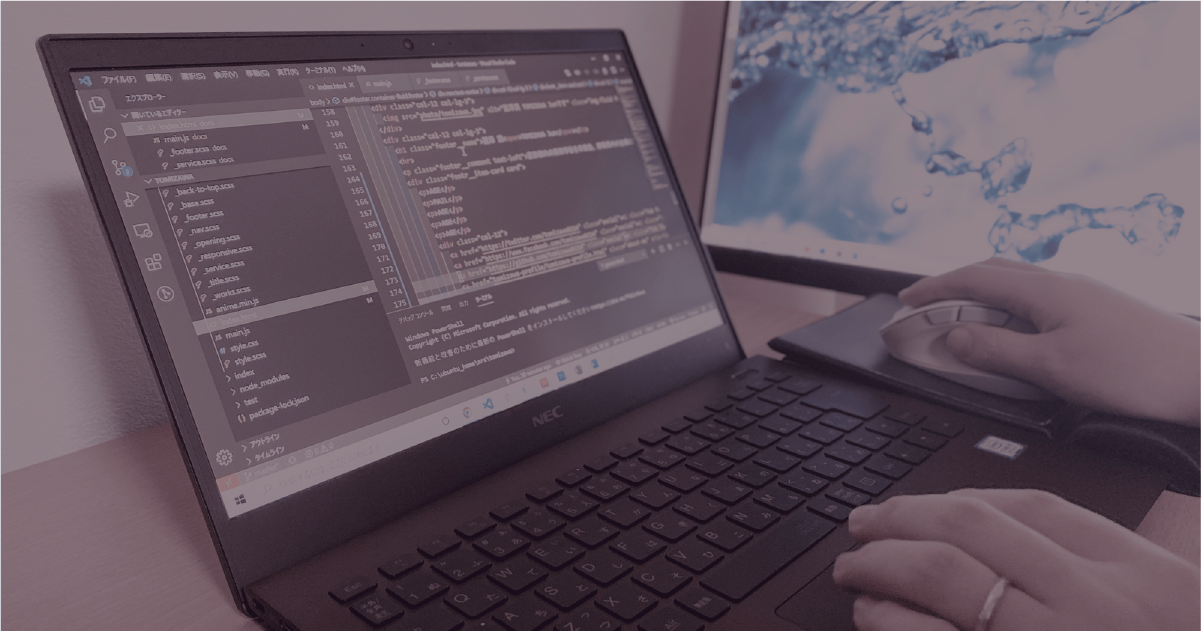
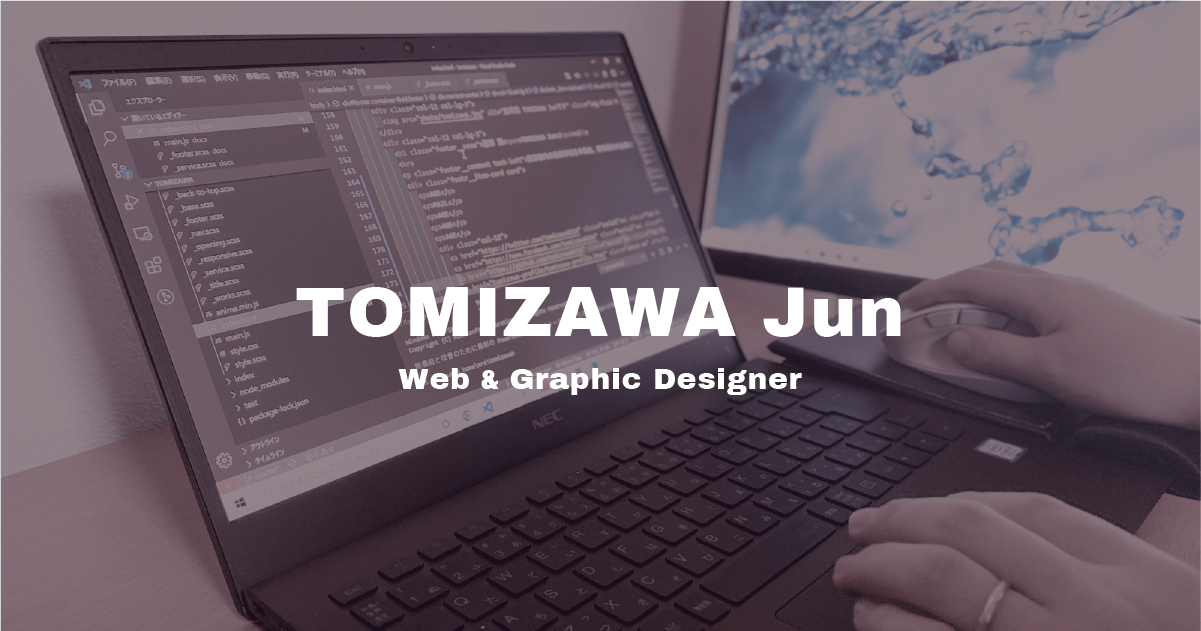
OGP画像変更

diff --git a/portfolio/templates/portfolio/base.html b/portfolio/templates/portfolio/base.html
@@ -15,18 +15,15 @@
     <meta name="viewport" content="width=device-width, initial-scale=1, shrink-to-fit=no">
     <meta name="keywords" content="群馬,デザイン,web, ホームページ, 制作, サイト, ネット, グラフィック,デザイナー,フリーランス,エンジニア,HTML,CSS,JavaScript,Python">
     <meta name="description" content="あなたのお悩み,解決に向けて尽力させてください！フリーランスで活動する群馬県在住のWeb&Graphicデザイナーです。どうぞお気軽にご連絡くださいませ。">
-    <!-- SNS共通の設定-->
     <head prefix="og: http://ogp.me/ns# fb: http://ogp.me/ns/fb# website: http://ogp.me/ns/website#"></head>
     <meta property="og:title" content="TOMIZAWA Jun | Web & Graphic Designer">
     <meta property="og:type" content="website">
     <meta property="og:url" content="https://tomizawajun.com">
-    <meta property="og:image" content="{% static 'img/main_sns.png' %}">
+    <meta property="og:image" content="https://tomizawajun.com/static/img/main_sns.png">
     <meta property="og:site_name" content="TOMIZAWA Jun | Web & Graphic Designer">
-    <meta property="og:description" content="あなたのお悩み,解決に向けて尽力させてください！フリーランスで活動する群馬県在住のWeb&Graphicデザイナーです。どうぞお気軽にご連絡くださいませ。">
+    <meta property="og:description" content="Web&Graphicデザイナー冨澤 潤のポートフォリオサイトです。どうぞお気軽にご連絡くださいませ。">
     <meta property="og:locale" content="ja_JP">
-    <!-- Facebookの設定 -->
     <meta property="fb:app_id" content="559419788100736">
-    <!-- Twitterの設定 -->
     <meta name="twitter:card" content="summary_large_image">
     <meta name="twitter:site" content="@tomizawa0214">
     <meta name="twitter:creator" content="@tomizawa0214">
